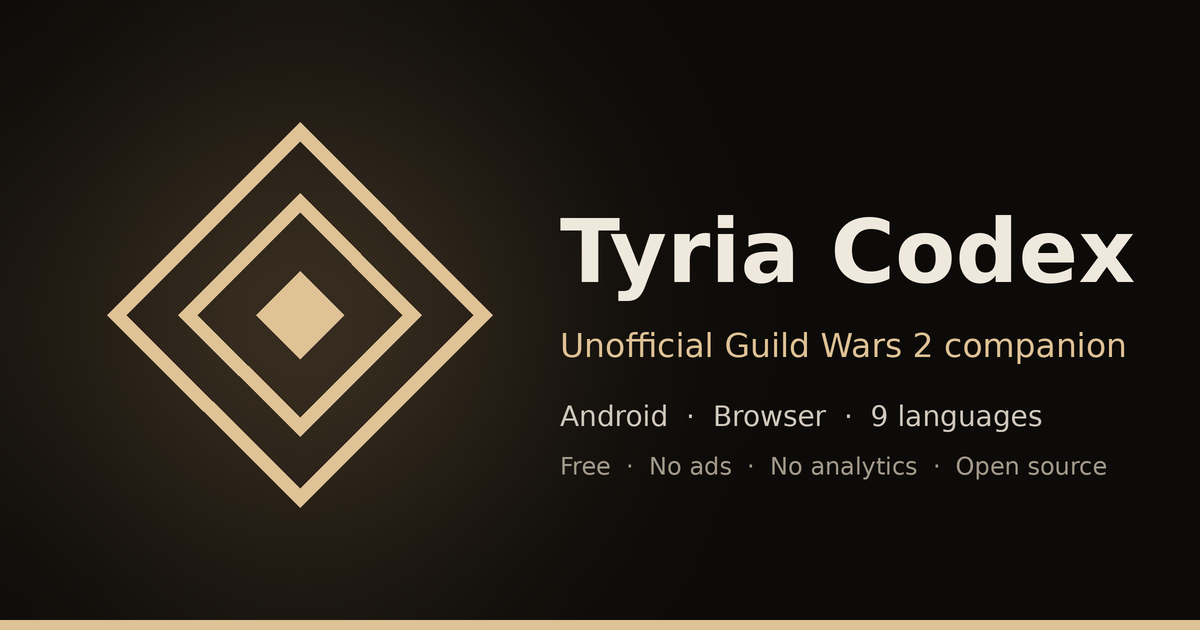
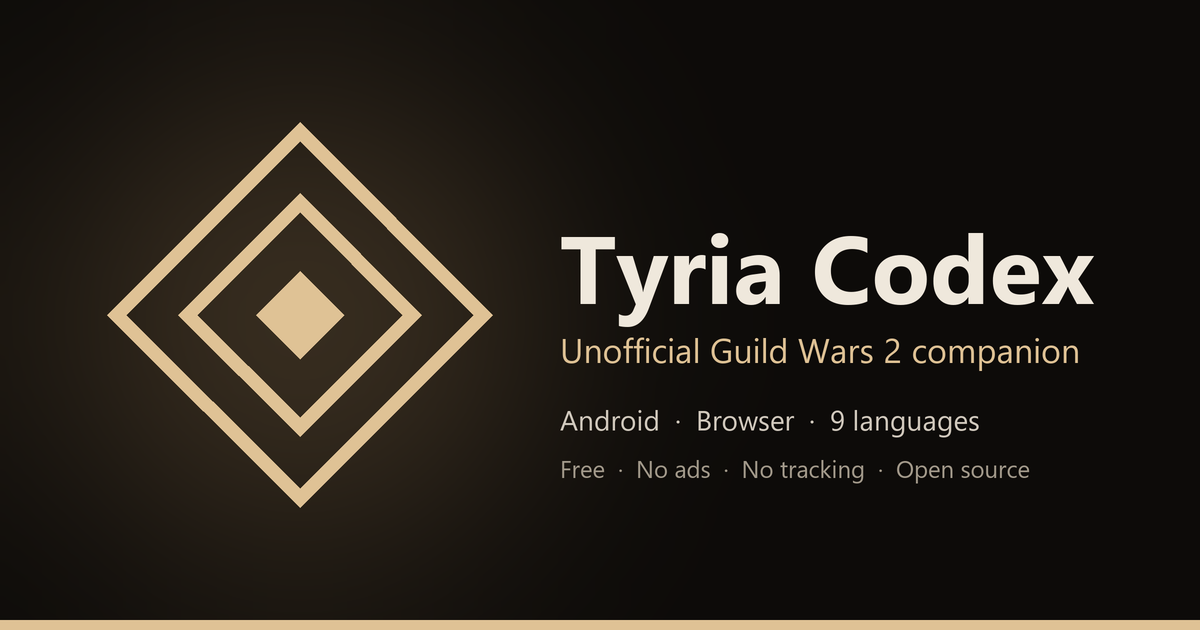
The product is called Tyria Codex wherever it is read, and the site says "no tracking"
Every "Tyria Companion" in the nine languages of the site is now "Tyria Codex", and so are the concept pages. The front page chip, the short privacy text and the first paragraph of the policy say that there is no tracking instead of no analytics, so they do not claim more than the privacy page says about counting which versions are in use; the paragraph also drops "daily achievements" from what the Discord channels can carry, since that feed was removed. The policy and the terms are dated 18 October 2026 in every language. The social image is drawn again with the new words.

diff --git a/design/ui-concepts/index.html b/design/ui-concepts/index.html
@@ -3,7 +3,7 @@
 <head>
 <meta charset="utf-8">
 <meta name="viewport" content="width=device-width, initial-scale=1">
-<title>Tyria Companion · UI concepts</title>
+<title>Tyria Codex · UI concepts</title>
 <style>
 :root{--bg:#0d0b09;--s:#1c1814;--line:#3a332a;--text:#f6f1e8;--muted:#9e9586;--gold:#dfc295}
 *{box-sizing:border-box;margin:0}
@@ -29,7 +29,7 @@ h3{margin:36px 0 10px;font-size:18px}
 </head>
 <body>
 <main>
-  <h1>Tyria Companion · UI concepts</h1>
+  <h1>Tyria Codex · UI concepts</h1>
   <p class="lead">Six directions for the same three screens (Today, Events, Trading) with the same mock data, so only the design differs. Open each in a browser, resize it to phone width, and click the nav. Countdowns are live.</p>
   <div class="grid">
     <a class="c" href="01-cinematic.html"><div class="sw"><i style="background:#06080f"></i><i style="background:#243049"></i><i style="background:#e0b04a"></i><i style="background:#c43b3b"></i></div>

diff --git a/design/ui-concepts/01-cinematic.html b/design/ui-concepts/01-cinematic.html
@@ -156,7 +156,7 @@ footer{border-top:1px solid var(--line);color:var(--muted);text-align:center;pad
 <body>
 <header class="top">
   <div class="top-in">
-    <a class="logo" href="index.html" aria-label="All concepts"><b></b>TYRIA COMPANION</a>
+    <a class="logo" href="index.html" aria-label="All concepts"><b></b>TYRIA CODEX</a>
     <nav class="nav" aria-label="Main">
       <button data-view-btn="home">Today</button>
       <button data-view-btn="events">Events</button>

diff --git a/design/ui-concepts/03-parchment.html b/design/ui-concepts/03-parchment.html
@@ -137,7 +137,7 @@ td{padding:11px 10px;border-bottom:1px dashed var(--line);vertical-align:middle}
 </head>
 <body>
 <header class="top"><div class="top-in">
-  <a class="logo" href="index.html"><b></b>Tyria Companion</a>
+  <a class="logo" href="index.html"><b></b>Tyria Codex</a>
   <nav class="main" aria-label="Main">
     <button data-view-btn="home">Today</button><button data-view-btn="events">Events</button><button data-view-btn="trading">Trading</button>
   </nav>

diff --git a/design/ui-concepts/06-refined-gold.html b/design/ui-concepts/06-refined-gold.html
@@ -97,7 +97,7 @@ a{color:inherit;text-decoration:none}
 <body>
 <div class="app">
 <nav class="side" aria-label="Main">
-  <a class="brand" href="index.html"><b></b>Tyria Companion</a>
+  <a class="brand" href="index.html"><b></b>Tyria Codex</a>
   <div class="g">Today</div>
   <button data-view-btn="home"><svg class="i"><use href="#i-home"/></svg>Home</button>
   <button data-view-btn="events"><svg class="i"><use href="#i-swords"/></svg>Bosses &amp; metas</button>

diff --git a/design/ui-concepts/02-ledger.html b/design/ui-concepts/02-ledger.html
@@ -107,7 +107,7 @@ tr:last-child td{border-bottom:0}
 <body>
 <div class="app">
 <aside>
-  <a class="brand" href="index.html"><b></b>Tyria Companion</a>
+  <a class="brand" href="index.html"><b></b>Tyria Codex</a>
   <nav aria-label="Main">
     <div class="group">Today</div>
     <button data-view-btn="home"><svg class="i"><use href="#i-home"/></svg>Overview</button>

diff --git a/design/ui-concepts/shared.js b/design/ui-concepts/shared.js
@@ -1,4 +1,4 @@
-/* shared helpers for the Tyria Companion UI concepts. no framework, no network. */
+/* shared helpers for the Tyria Codex UI concepts. no framework, no network. */
 (function () {
   const pad = (n) => String(n).padStart(2, '0');
 

diff --git a/tools/make_site_image.py b/tools/make_site_image.py
@@ -76,7 +76,7 @@ def make():
     draw.text((x, 326 * scale), sub, font=fitted(REGULAR, sub, 34 * scale, room), fill=GOLD)
     line = "Android  ·  Browser  ·  9 languages"
     draw.text((x, 400 * scale), line, font=fitted(REGULAR, line, 28 * scale, room), fill=SOFT)
-    free = "Free  ·  No ads  ·  No analytics  ·  Open source"
+    free = "Free  ·  No ads  ·  No tracking  ·  Open source"
     draw.text((x, 452 * scale), free, font=fitted(REGULAR, free, 24 * scale, room), fill=MUTED)
 
     # a line of gold along the bottom
